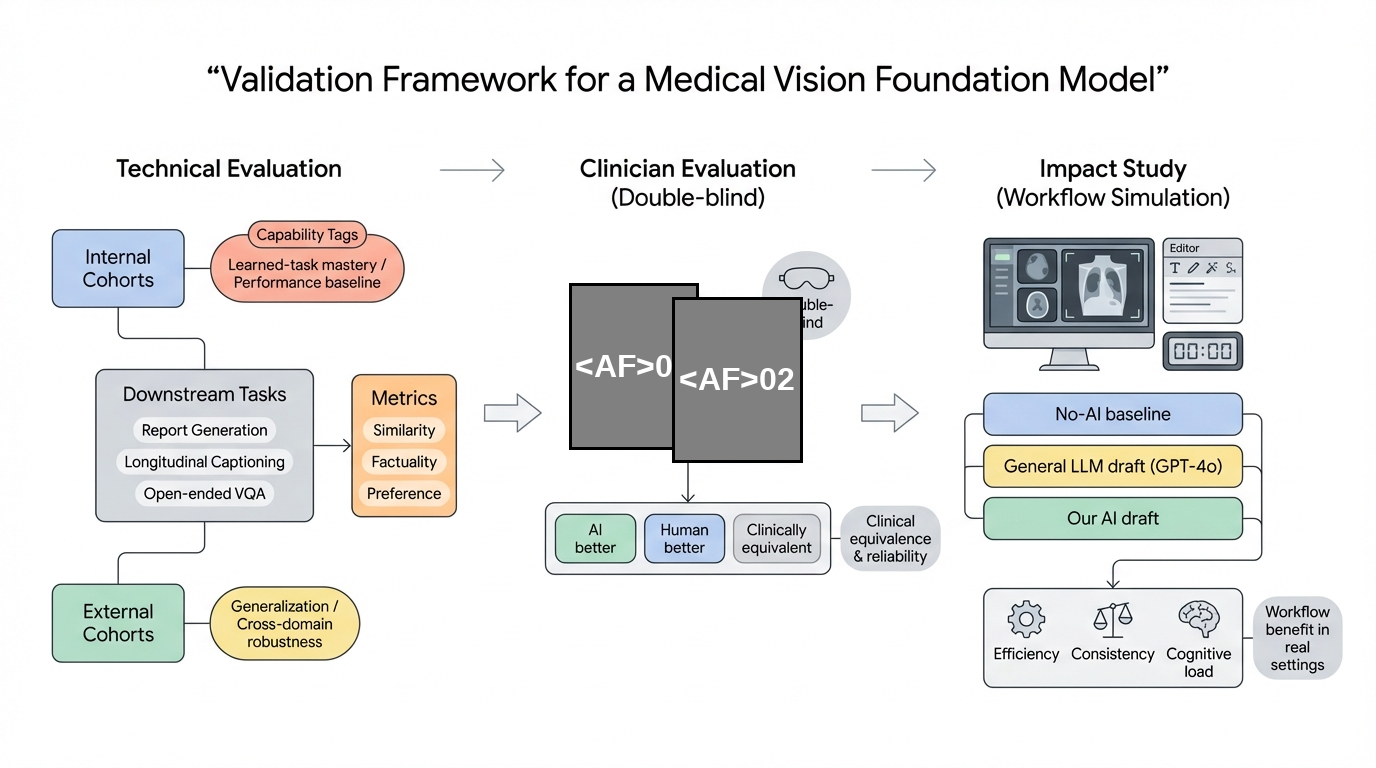
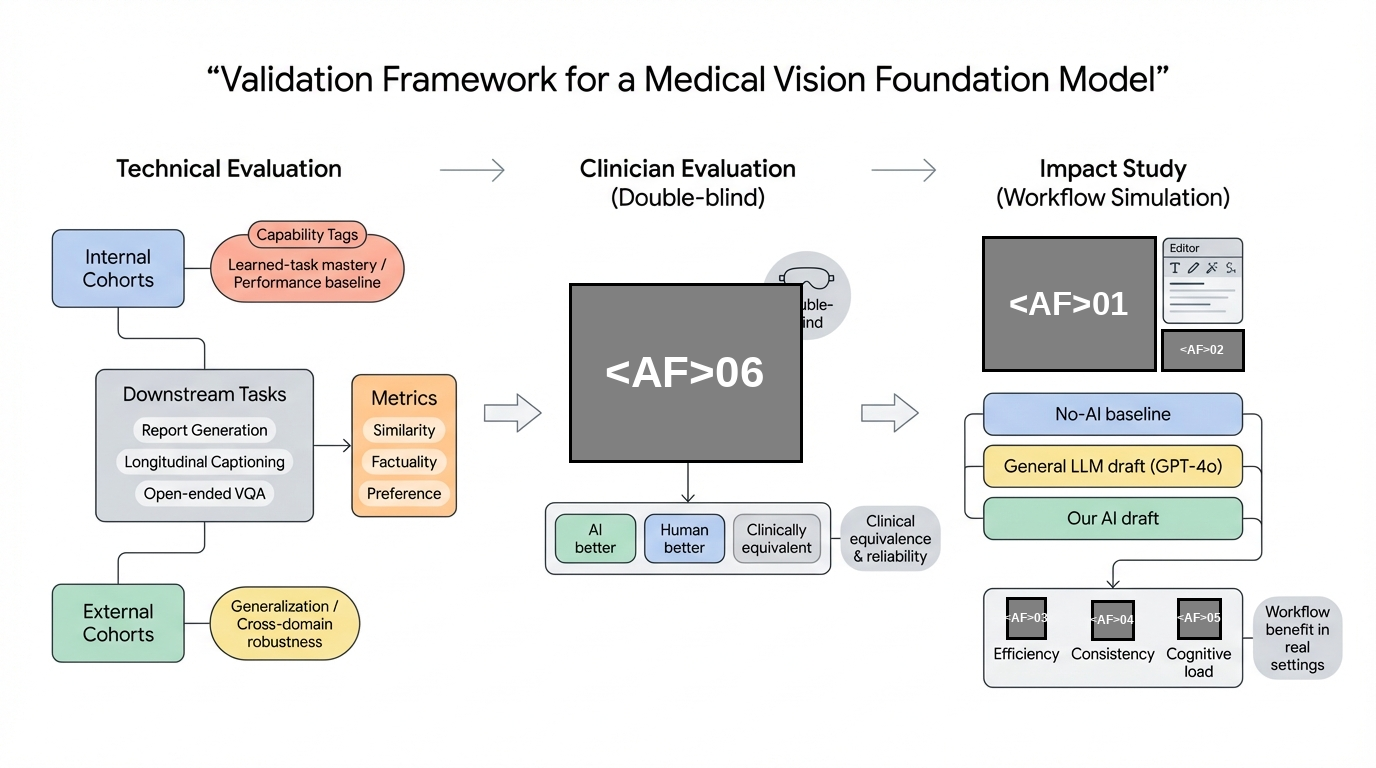
测试效果

diff --git a/step2/step2_sam3_roboflow_only_one_simple.py b/step2/step2_sam3_roboflow_only_one_simple.py
@@ -21,11 +21,11 @@ from PIL import Image, ImageDraw, ImageFont
 
 
 # ---- Hardcoded configuration ----
-IMAGE_PATH = "step2/sample_images/1.ai_tools.drawio.png"
-OUTPUT_DIR = f"step2/sam3_outputs/{Path(IMAGE_PATH).stem}"
-TEXT_PROMPTS = "student,robot,magnifier,computer,database,icon"
+IMAGE_PATH = "step2/sample_images/Validation_Framework_Medical_Vision_202605151644.jpeg"
+OUTPUT_DIR = f"step2/sam3_outputs/{Path(IMAGE_PATH).stem}_just_icon"
+TEXT_PROMPTS = "icon"
 MIN_SCORE = 0.5
-MERGE_THRESHOLD = 0.9
+MERGE_THRESHOLD = 0.01
 # Size filter: drop boxes too small relative to the image size.
 MIN_WIDTH_RATIO = 0.02
 MIN_HEIGHT_RATIO = 0.02